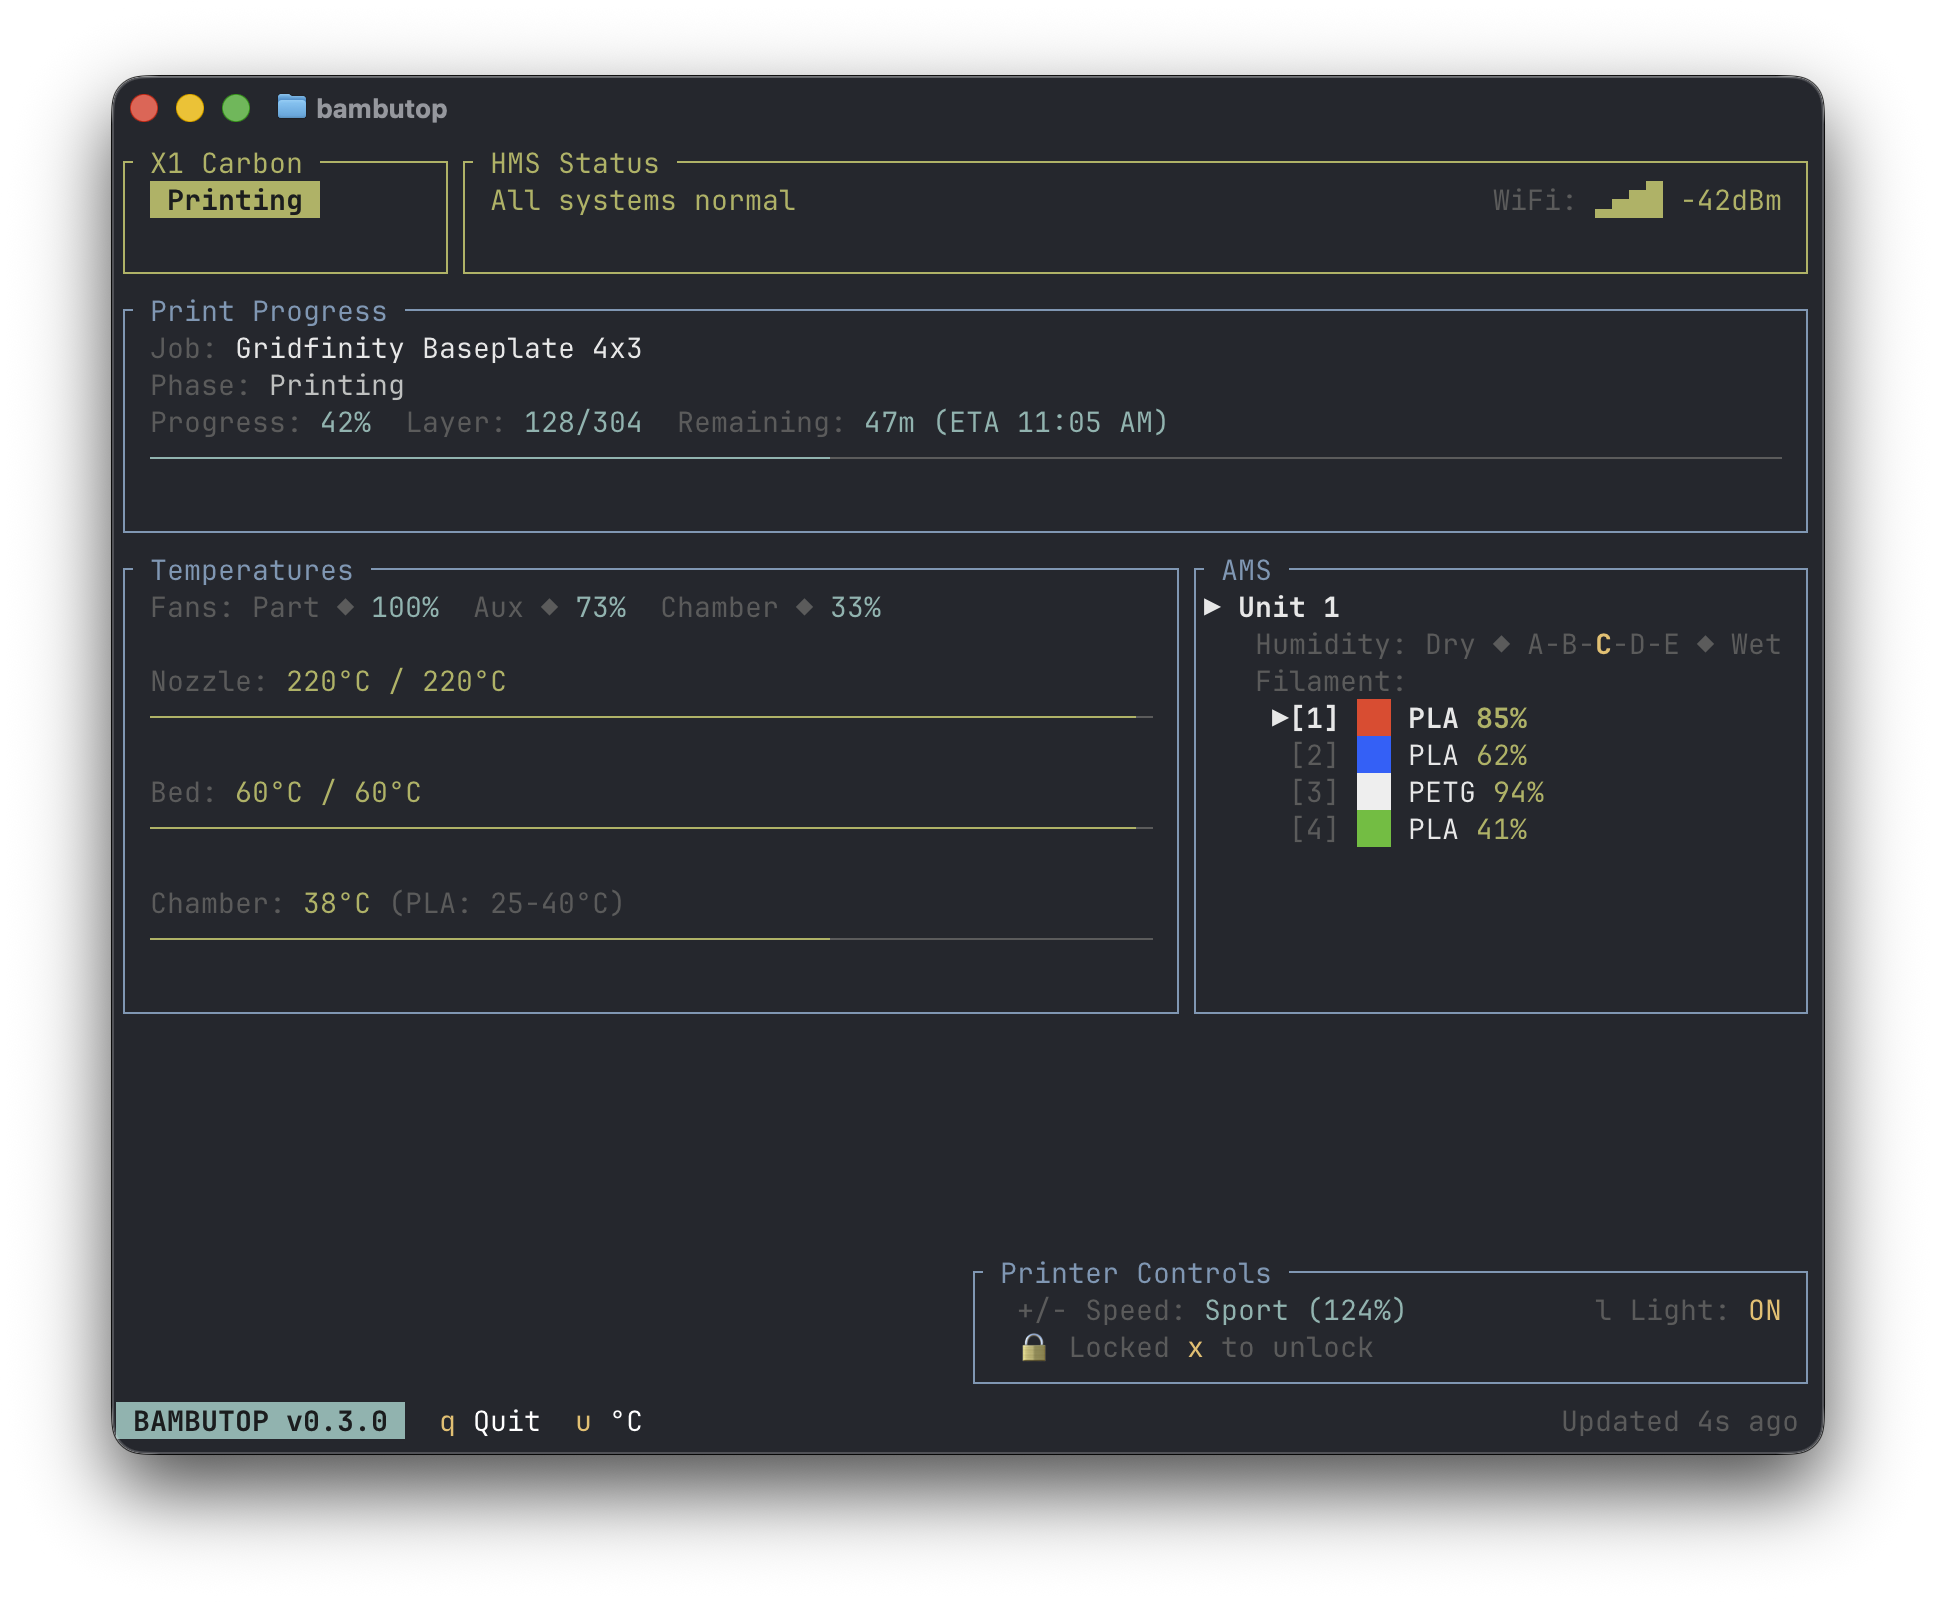
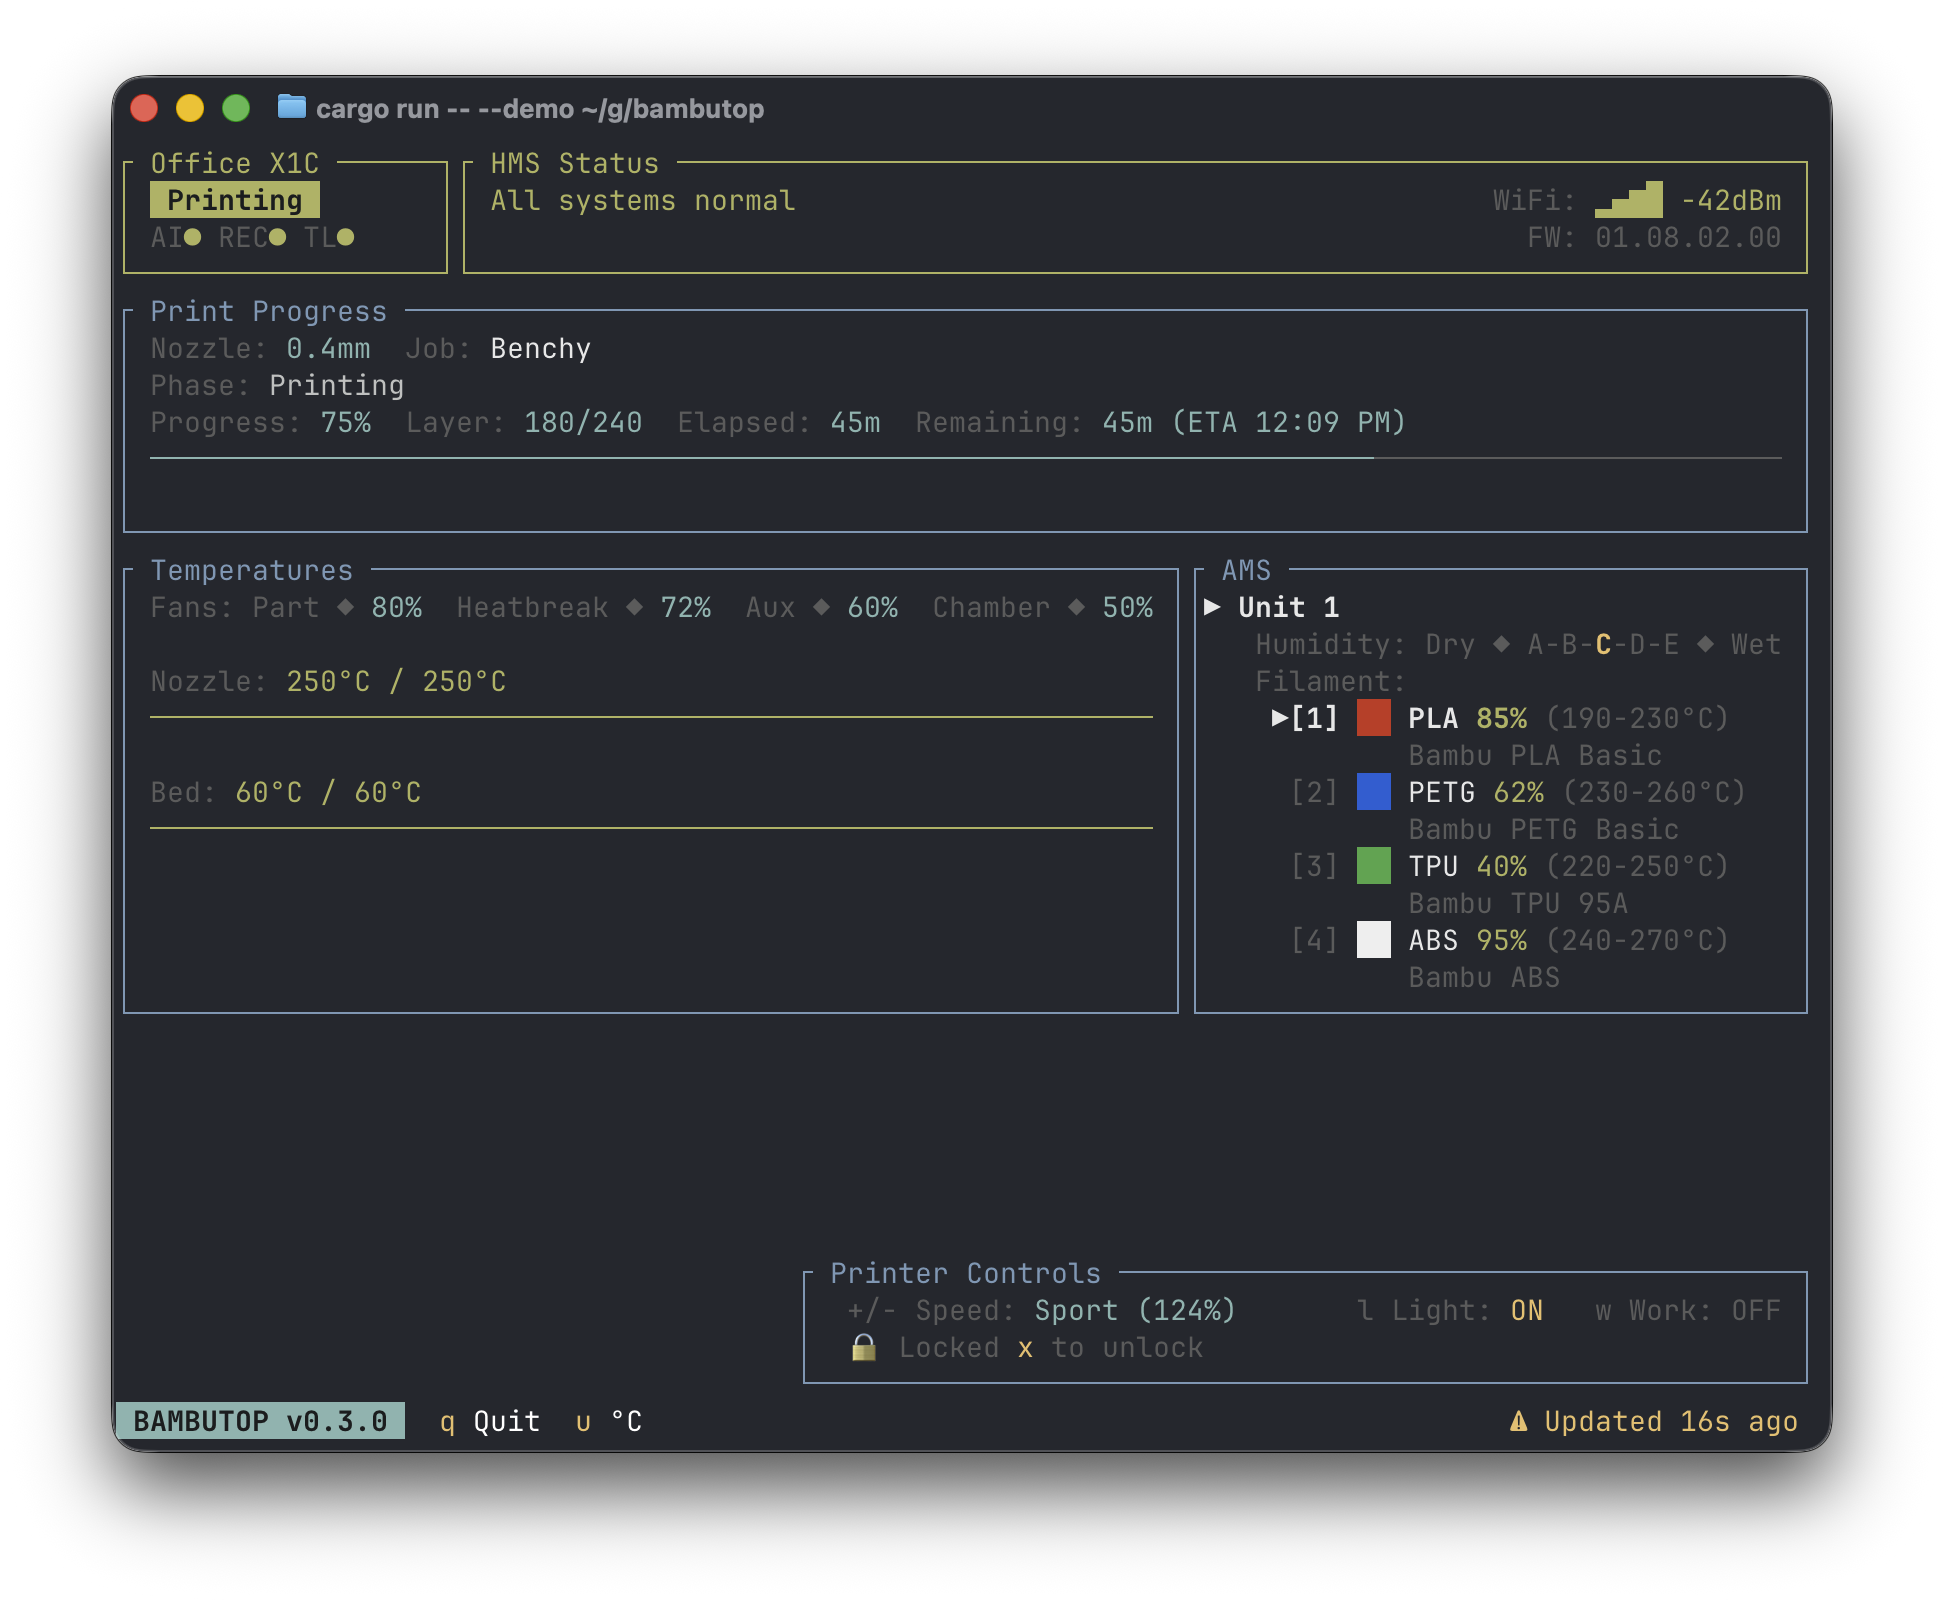
docs: update README screenshots from demo mode

diff --git a/README.md b/README.md
@@ -2,10 +2,9 @@
 
 [![License: GPL v3](https://img.shields.io/badge/License-GPLv3-blue.svg)](https://www.gnu.org/licenses/gpl-3.0) [![GitHub release](https://img.shields.io/github/v/release/rhoopr/bambutop)](https://github.com/rhoopr/bambutop/releases/latest) ![GitHub Downloads](https://img.shields.io/github/downloads/rhoopr/bambutop/total)
 
-A terminal-based status monitor for Bambu Lab printers. Think `htop`, but for your 3D printer.
+A terminal-based status monitor for Bambu Lab printers. `htop`, but for your 3D printer.
 
 ![BambuTop Detail View](screenshot-detail.png)
-
 ![BambuTop Aggregate View](screenshot-aggregate.png)
 
 ## Features
